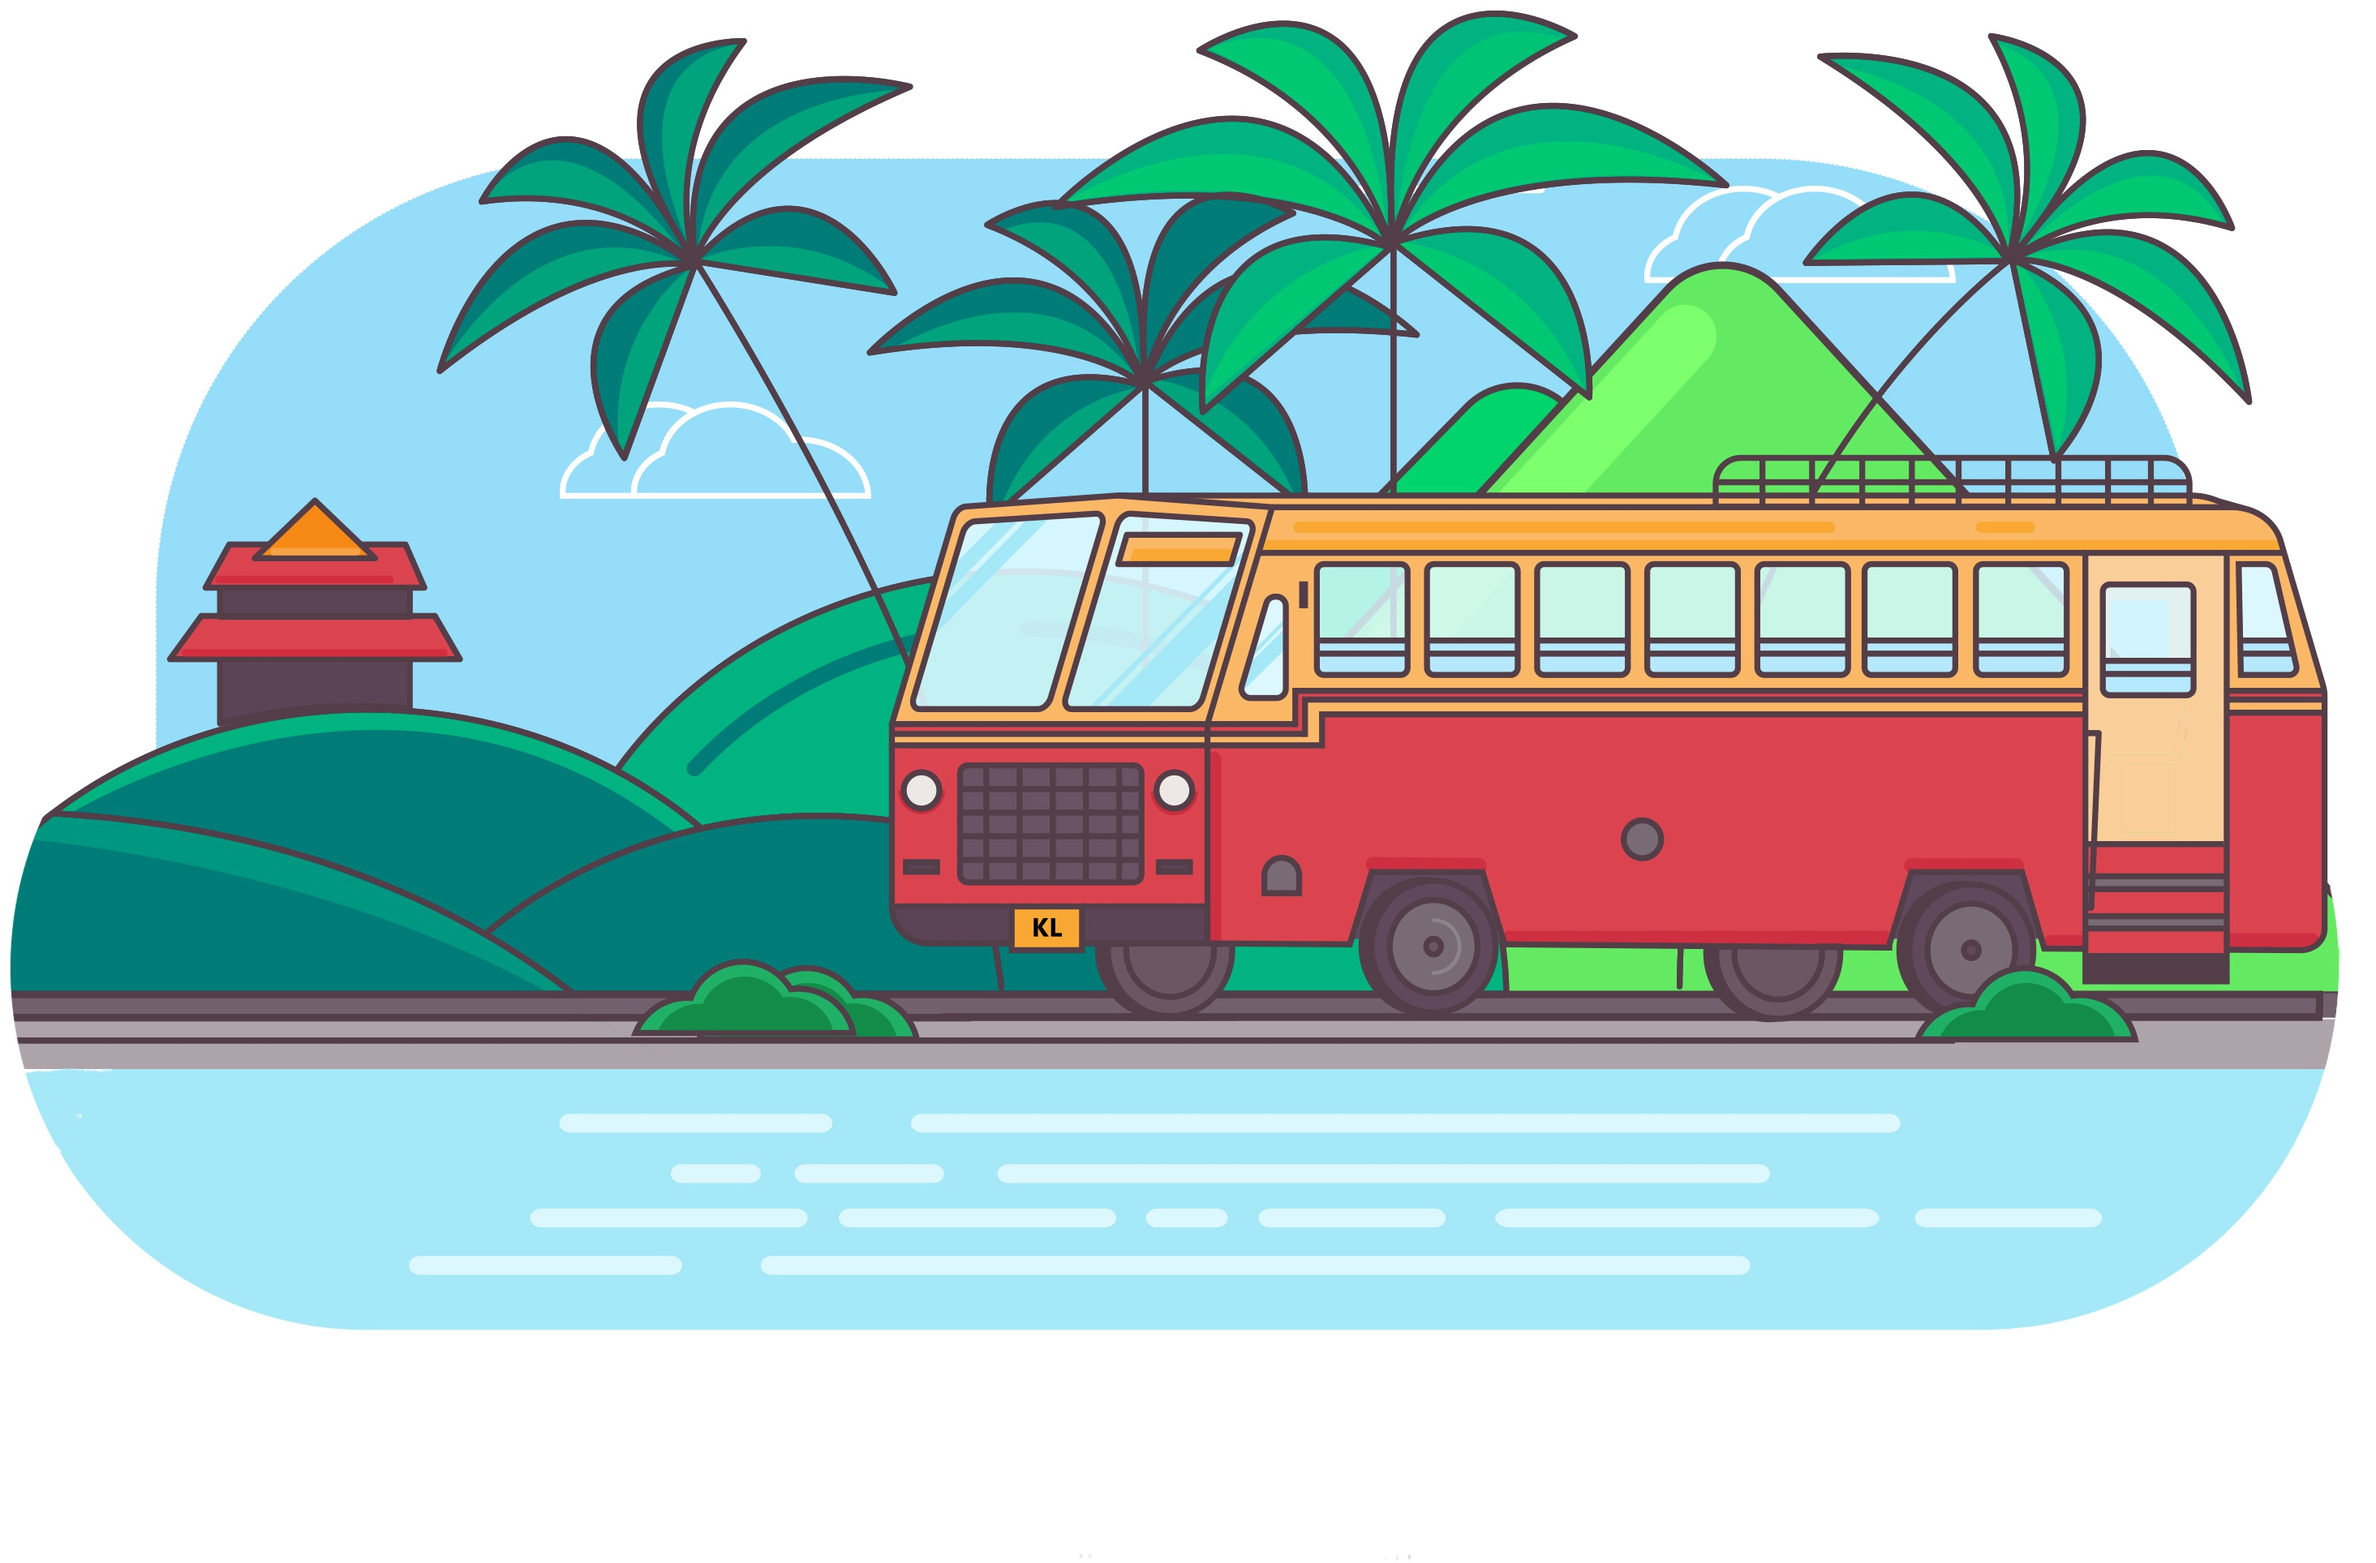
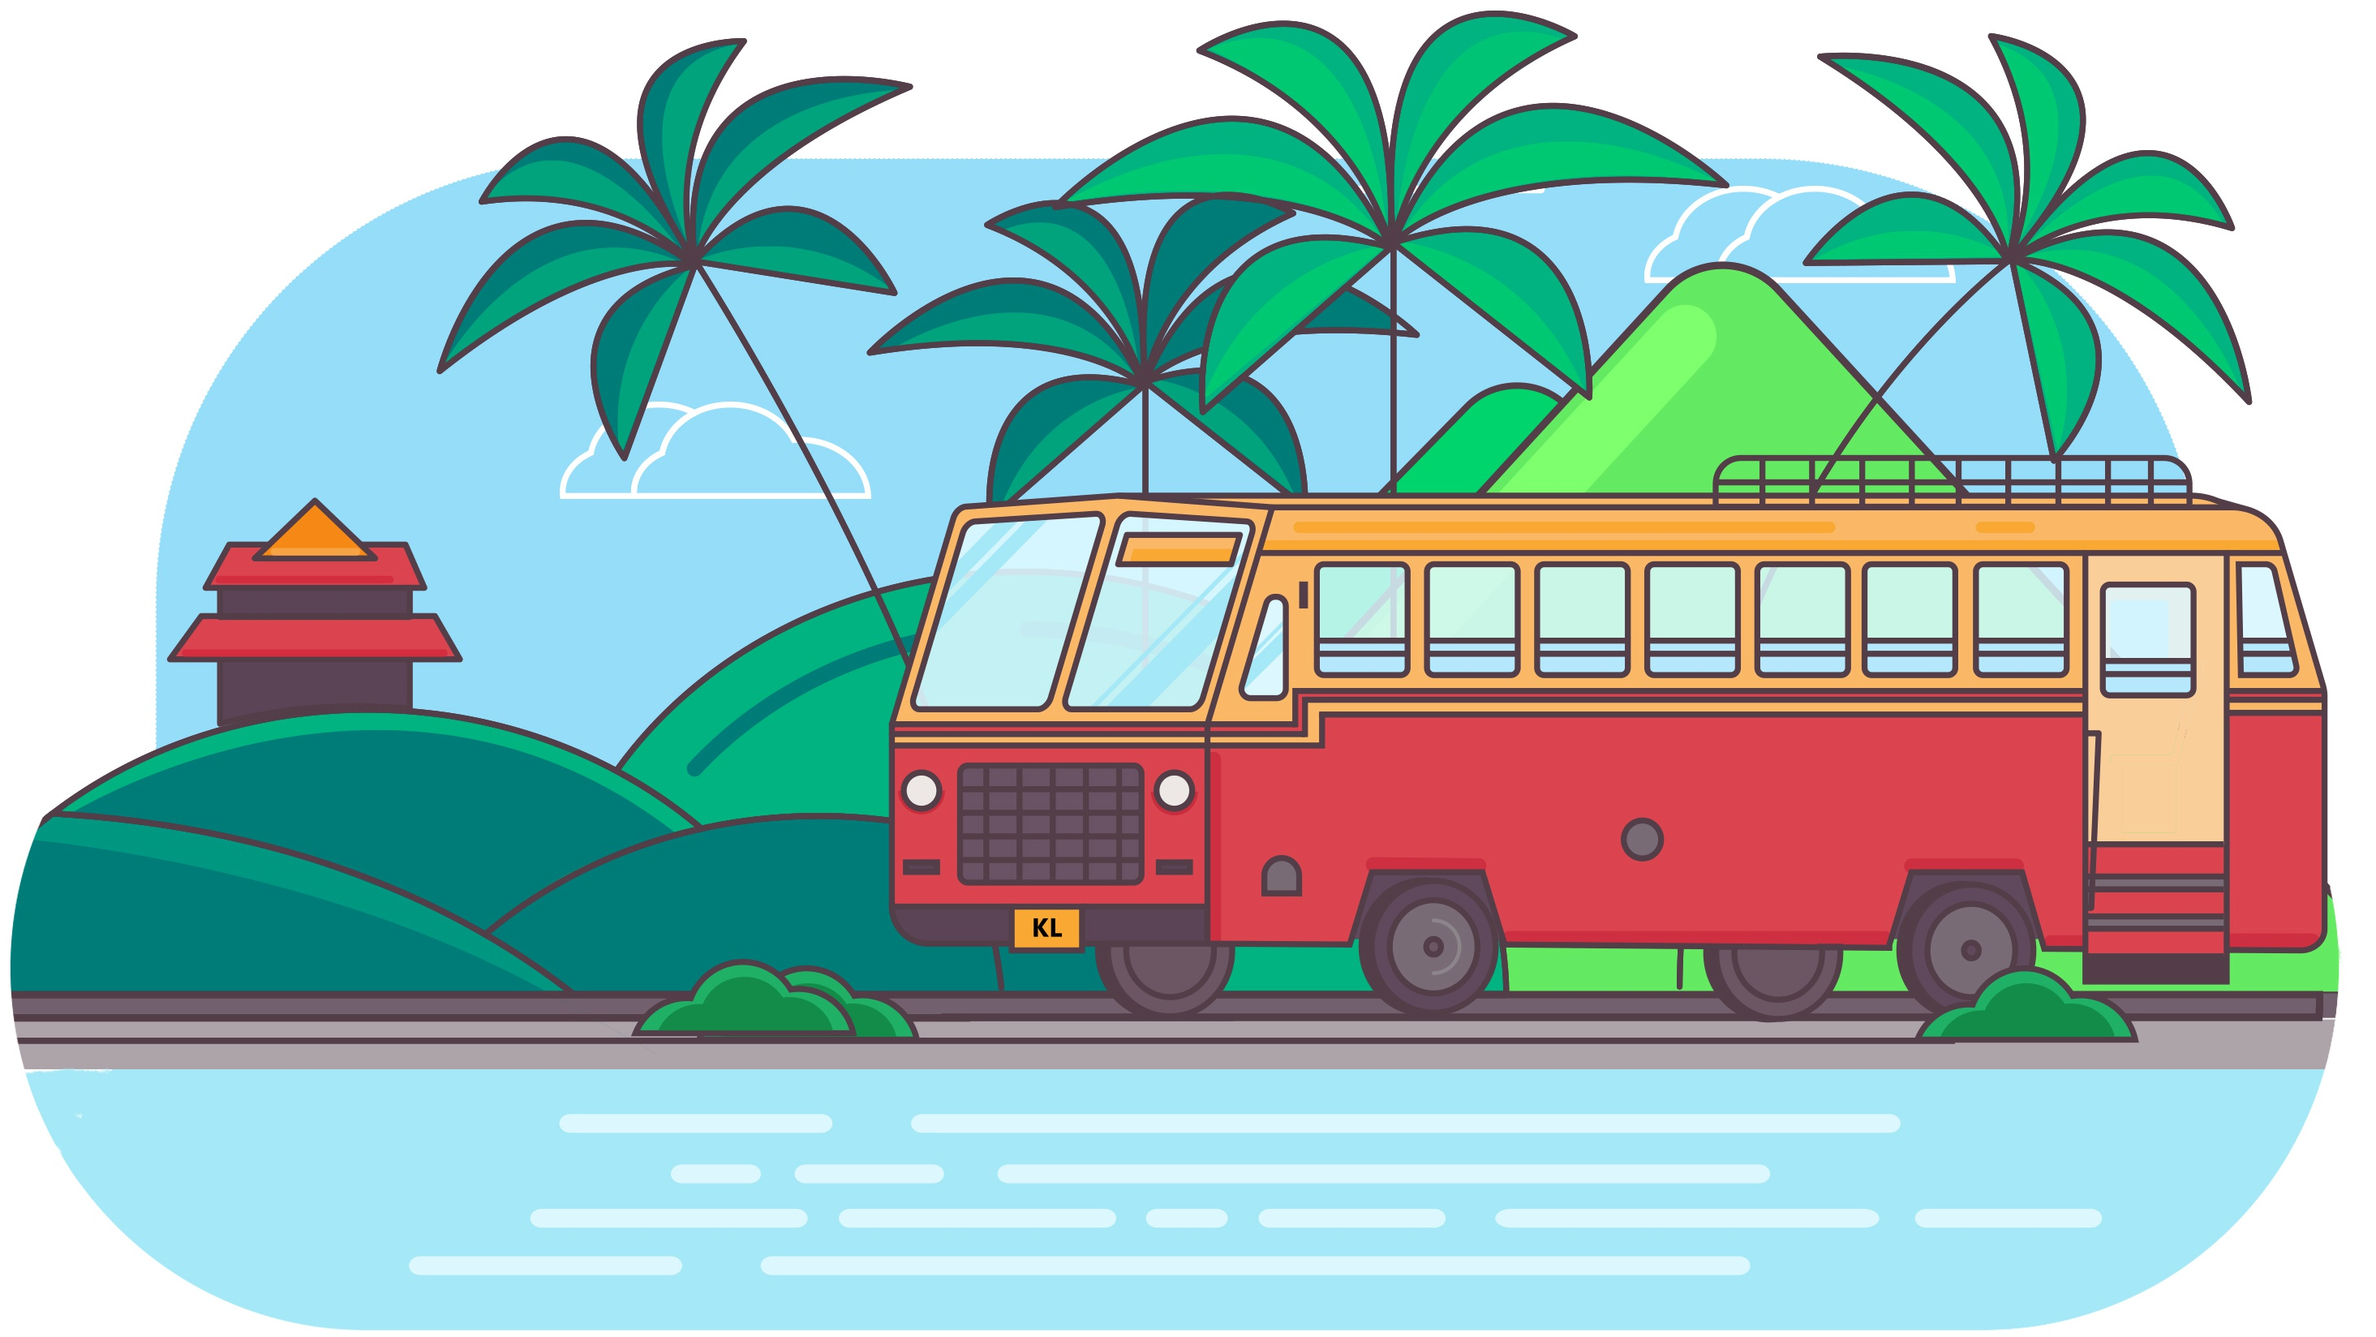
existing, but apparently you cannot just exist

diff --git a/src/app/main-banner/main-banner.component.css b/src/app/main-banner/main-banner.component.css
@@ -1,24 +1,31 @@
 .main-banner {
   /* width: 100%; */
-  margin: 112px auto 32px;
+  margin: 112px auto 10px;
   /* display: flex;
     flex-direction: column;
     justify-content: center; */
   align-content: center;
+  display: flex;
+  flex-direction: row;
+}
+
+#spacer{
+  flex: 1;
 }
 
 .main-banner #banner-img {
-  max-width: 960px;
+  max-width: 750px;
   width: 100%;
   position: relative;
   height: auto;
+  padding-bottom: 5px;
 }
 
-figure figcaption {
+/* figure figcaption {
   text-align: right;
   position: relative;
-
-}
+  
+} */
 
 .main-banner figcaption {
   position: absolute;

diff --git a/src/app/main-banner/main-banner.component.html b/src/app/main-banner/main-banner.component.html
@@ -1,8 +1,10 @@
 <div class="main-banner">
+    <div id="spacer"></div>
     <figure>
         <a href="https://dribbble.com/shots/5484687-KSRTC-Bus-Kerala" target="_blank">
             <img id="banner-img" alt="Main banner image" src="assets/images/ksrtc_bus_kerala.png">
         </a>
         <figcaption>Illustration by Deepak Kumar on dribbble</figcaption>
     </figure>
+    <div id="spacer"></div>
 </div>

diff --git a/src/app/app.component.css b/src/app/app.component.css
@@ -61,6 +61,7 @@ p {
   min-width: 80%;
   flex-direction: column;
   align-items: center;
+  justify-content: flex-start;
 }
 
 a,
